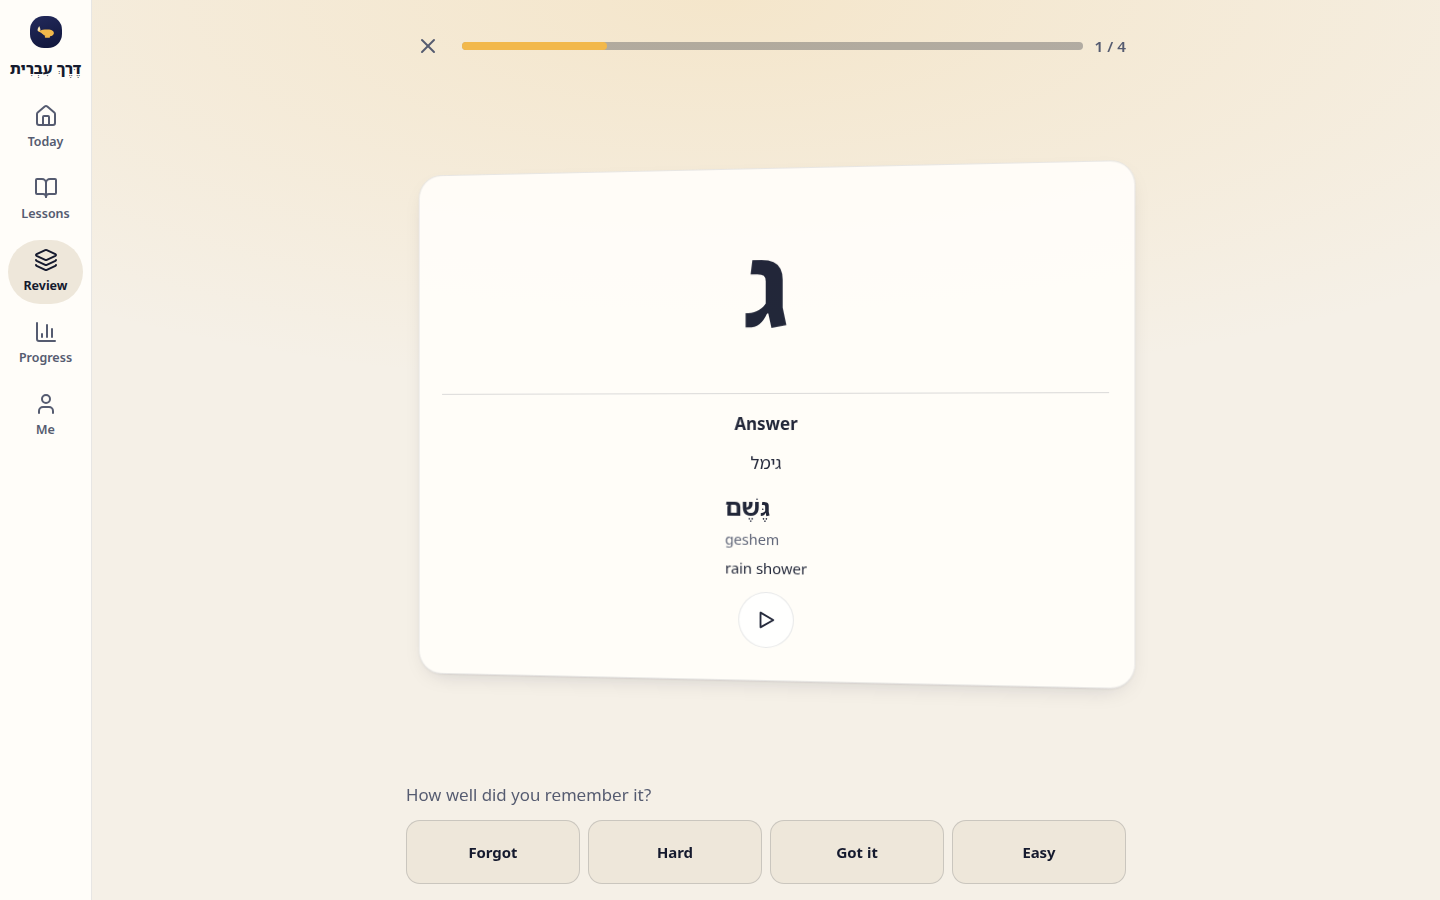
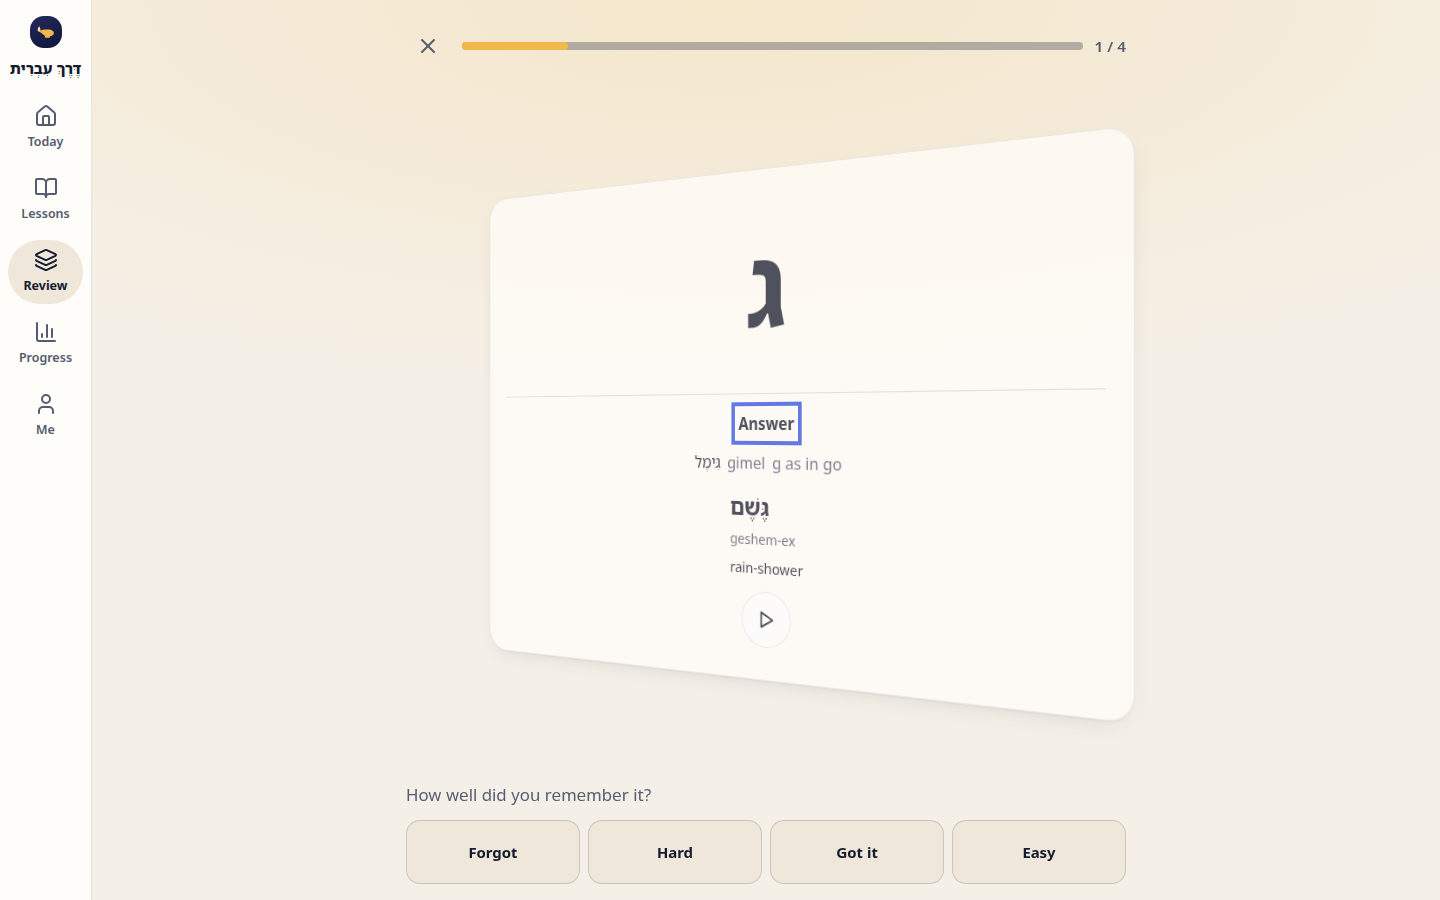
Date the alef-bet sign-off and show the hard note on single letters.
The source line is verified by Hebrew Tutor 2026-10-20. A single ב, כ, or פ, with or without the dot, renders the word-initial line, and so does a dagesh pair of those letters. Letter and pair backs are refreshed at 390 and 1440.

diff --git a/internal/web/alefbet_test.go b/internal/web/alefbet_test.go
@@ -143,13 +143,18 @@ func TestAlefbetReference(t *testing.T) {
 		t.Fatal("a pair without a standard visual difference produced a cue")
 	}
 	hard := "At the start of a word, ב, כ, and פ are almost always hard (b, k, p)."
+	for _, letter := range []string{"ב", "כ", "פ", "ב\u05BC", "כ\u05BC", dot} {
+		if got := views.DageshHardNote([]string{letter}); got != hard {
+			t.Fatalf("single %q hard note = %q", letter, got)
+		}
+	}
 	for _, pair := range [][]string{{"ב\u05BC", "ב"}, {"כ\u05BC", "כ"}, {dot, "פ"}} {
 		if got := views.DageshHardNote(pair); got != hard {
 			t.Fatalf("hard note %q = %q", pair, got)
 		}
 	}
-	if views.DageshHardNote([]string{"ג", "פ"}) != "" || views.DageshHardNote([]string{"שׁ", "שׂ"}) != "" {
-		t.Fatal("a pair that is not ב כ פ with a dagesh produced the position line")
+	if views.DageshHardNote([]string{"ג"}) != "" || views.DageshHardNote([]string{"ג", "פ"}) != "" || views.DageshHardNote([]string{"שׁ", "שׂ"}) != "" {
+		t.Fatal("a letter that is not ב, כ, or פ produced the position line")
 	}
 }
 
@@ -181,6 +186,32 @@ func TestReviewLetterBackUsesAlefbet(t *testing.T) {
 		if !strings.Contains(body, want) {
 			t.Fatalf("back missing %q\n%s", want, body)
 		}
+	}
+	if strings.Contains(body, "almost always hard") {
+		t.Fatal("gimel back showed the bet/kaf/pe position line")
+	}
+}
+
+// TestReviewHardNoteOnBegadkefat renders the word-initial line on a single
+// ב, כ, or פ, with or without the dot, and keeps it off the front.
+func TestReviewHardNoteOnBegadkefat(t *testing.T) {
+	hard := "At the start of a word, ב, כ, and פ are almost always hard (b, k, p)."
+	letters := []string{"ב", "כ", "פ", "ב\u05BC", "כ\u05BC", "פ\u05BC"}
+	for i, letter := range letters {
+		t.Run(letter, func(t *testing.T) {
+			store, h, now := openApp(t)
+			learner := addLearner(t, store, "a@example.com", "sub-hard-"+string(rune('a'+i)), now)
+			seedDrill(t, store, learner.user.ID, "letter", letter, 0)
+			front := getLearner(t, h, learner, "/review")
+			if strings.Contains(front, "almost always hard") {
+				t.Fatalf("position line leaked onto the front\n%s", front)
+			}
+			shown := getReveal(t, h, learner, mustCardID(t, front))
+			body := shown.Body.String()
+			if shown.Code != 200 || !strings.Contains(body, hard) {
+				t.Fatalf("single %q back = %d\n%s", letter, shown.Code, body)
+			}
+		})
 	}
 }
 

diff --git a/internal/web/views/alefbet.go b/internal/web/views/alefbet.go
@@ -1,4 +1,4 @@
-// verified by Hebrew Tutor YYYY-MM-DD: pending
+// verified by Hebrew Tutor 2026-10-20
 //
 // Alefbet is reference data for the twenty-two Hebrew letters, the five
 // final forms, and the dagesh and shin/sin variants. It is not lesson
@@ -180,9 +180,18 @@ func LetterDageshNote(parts, stored []string) string {
 	return DageshNote(sides)
 }
 
-// DageshHardNote is the line after the with-dot sentence for בּ/ב, כּ/כ, and פּ/פ.
+// DageshHardNote is the word-initial line for ב, כ, and פ.
+// A single letter shows it with or without the dot. A pair shows it when
+// the two sides are that letter with and without the dot.
 func DageshHardNote(parts []string) string {
-	if len(parts) != 2 {
+	const note = "At the start of a word, ב, כ, and פ are almost always hard (b, k, p)."
+	if len(parts) == 1 {
+		if begadkefat(parts[0]) {
+			return note
+		}
+		return ""
+	}
+	if len(parts) != 2 || !begadkefat(parts[0]) || !begadkefat(parts[1]) {
 		return ""
 	}
 	a := stripDagesh(norm.NFC.String(parts[0]))
@@ -195,10 +204,14 @@ func DageshHardNote(parts []string) string {
 	if aDot == bDot {
 		return ""
 	}
-	switch a {
+	return note
+}
+
+func begadkefat(part string) bool {
+	switch stripDagesh(norm.NFC.String(part)) {
 	case "ב", "כ", "פ":
-		return "At the start of a word, ב, כ, and פ are almost always hard (b, k, p)."
+		return true
 	default:
-		return ""
+		return false
 	}
 }

diff --git a/internal/web/views/page.go b/internal/web/views/page.go
@@ -259,7 +259,8 @@ type ReviewCard struct {
 	// Sides, ExampleText, ExampleTranslit, and ExampleGloss are the drill answer.
 	// They are empty until the card is revealed, so the front has no answer markup.
 	// TellApart and DageshNote are the same: empty when the data has no cue.
-	// DageshHard is the position line after DageshNote for בּ/ב, כּ/כ, and פּ/פ.
+	// DageshHard is the word-initial line for a single ב, כ, or פ, and for a
+	// dagesh pair of those letters. It is empty on every other card.
 	Sides           []DrillSide
 	ExampleText     string
 	ExampleTranslit string

diff --git a/internal/web/viewmodel.go b/internal/web/viewmodel.go
@@ -82,7 +82,7 @@ type ReviewCardVM struct {
 	ExampleGloss    string
 	// Asked is the one letter a pair card shows. TellApart and DageshNote are
 	// empty when the stored data has no cue and no sounds. DageshHard is the
-	// position line for בּ/ב, כּ/כ, and פּ/פ.
+	// word-initial line for a single ב, כ, or פ, and for a dagesh pair of them.
 	Asked      string
 	TellApart  string
 	DageshNote string
